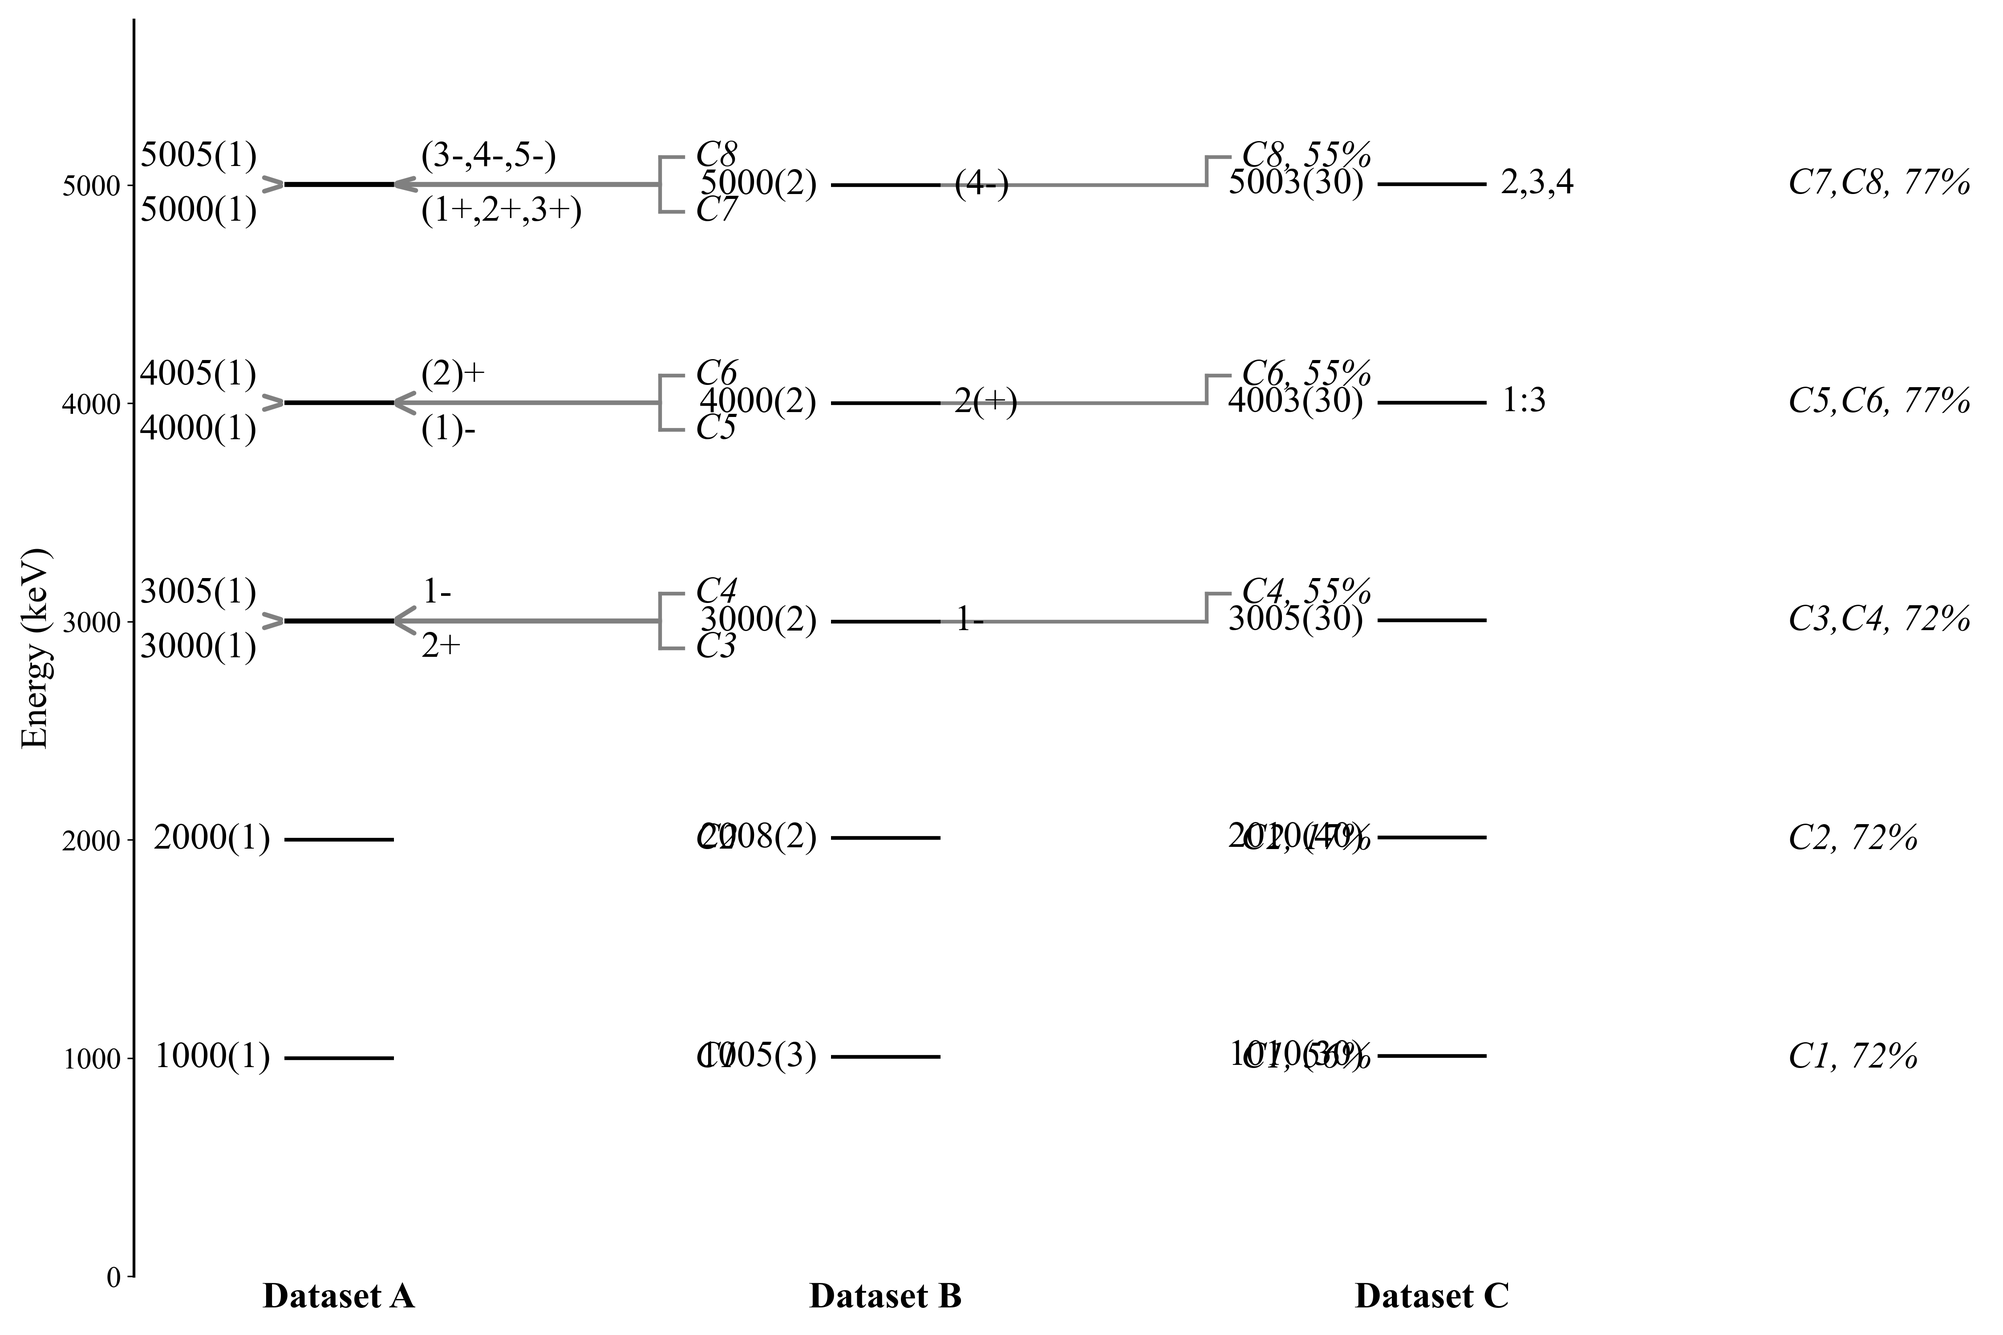
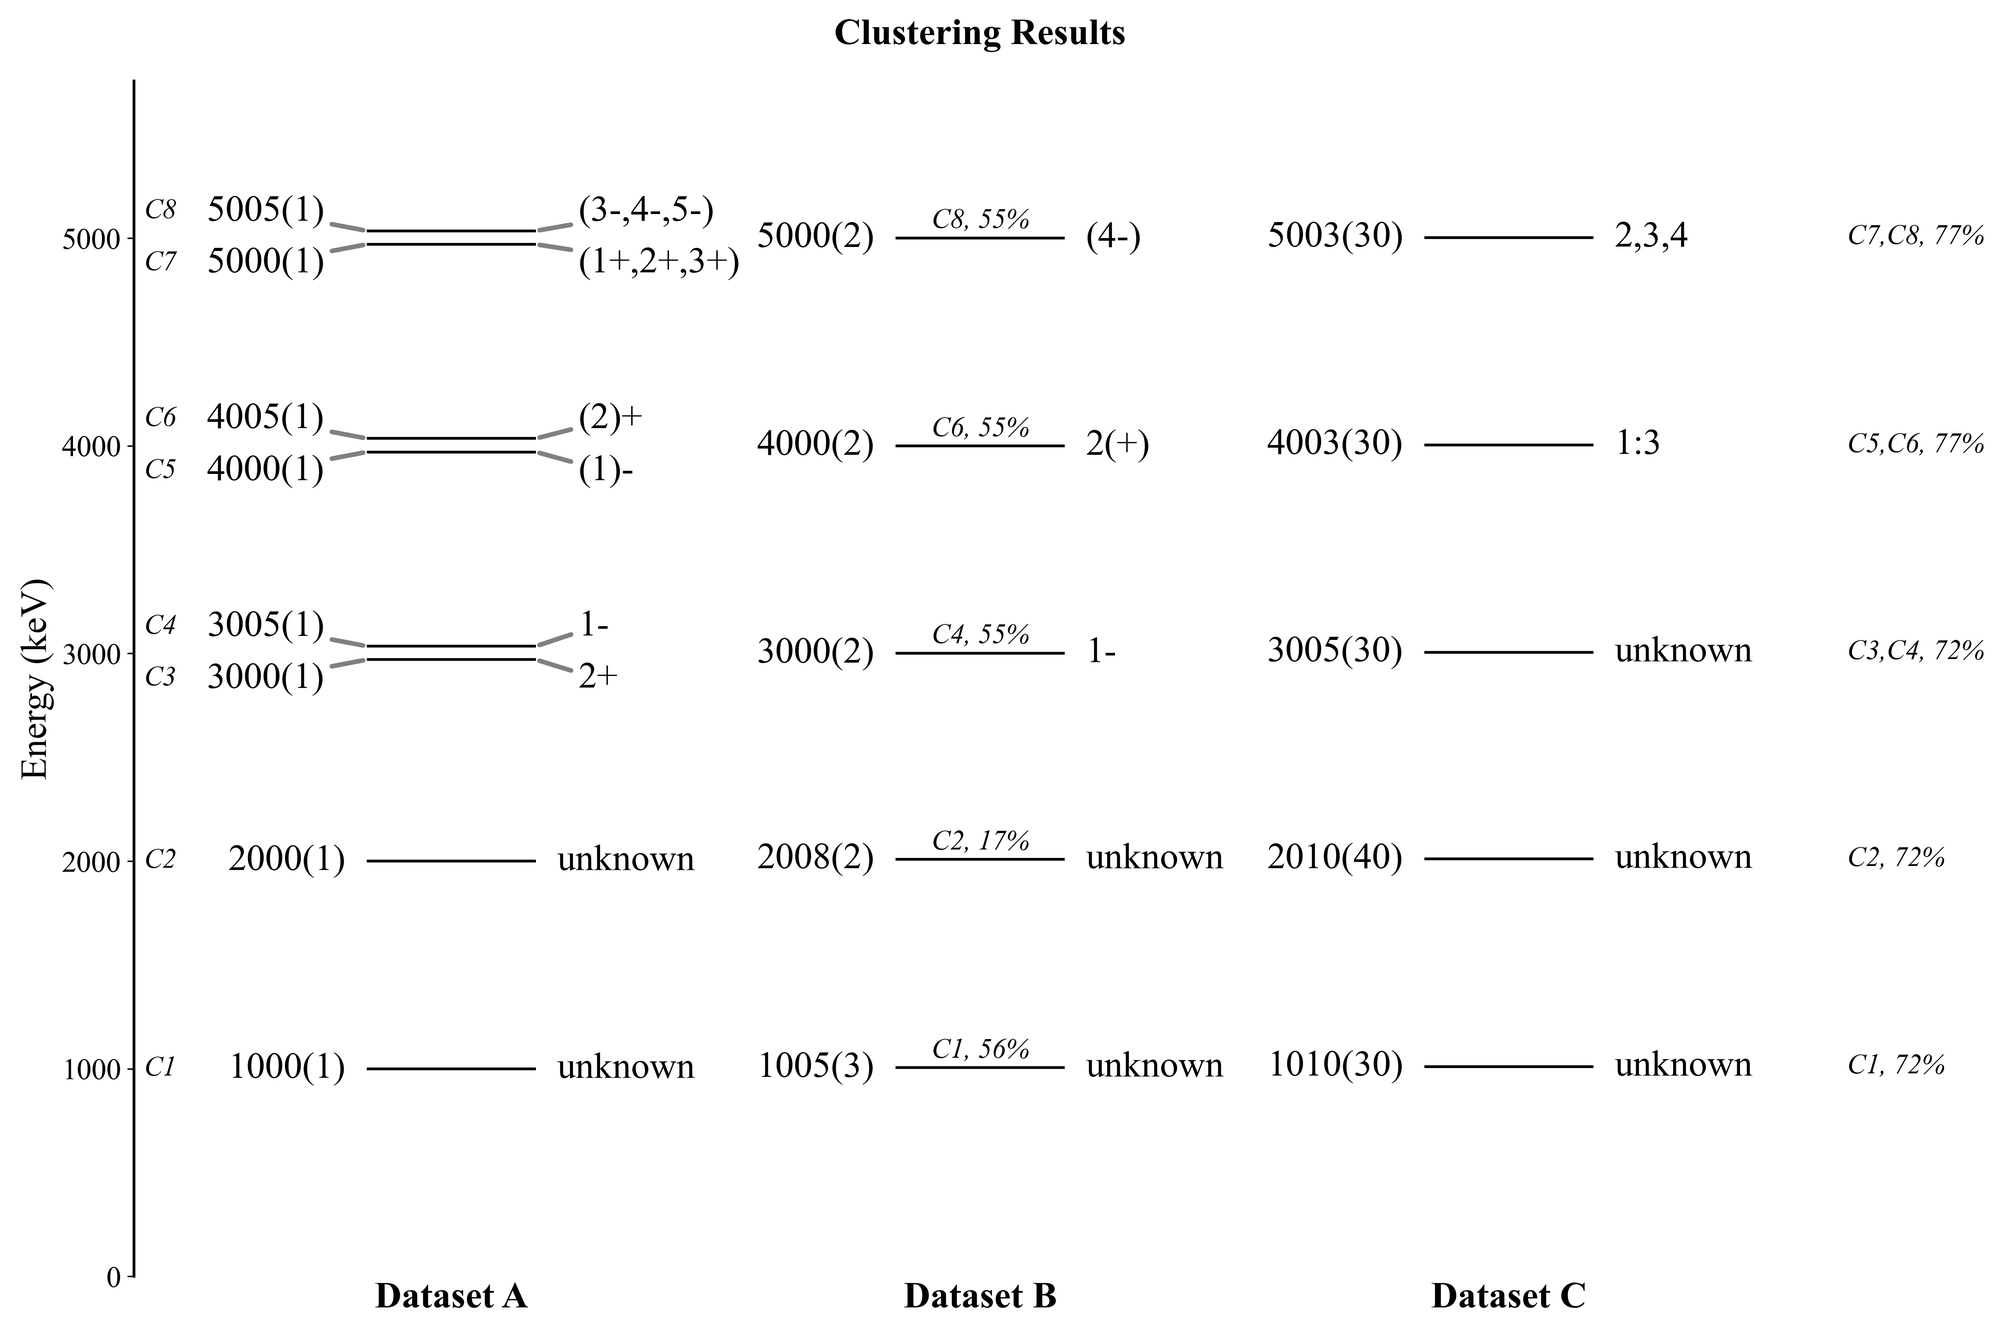
Enhance clustering visualization to align with Level Scheme layout and add cluster labels

diff --git a/Combined_Visualizer.py b/Combined_Visualizer.py
@@ -264,7 +264,7 @@ def parse_clustering_results(clustering_file_path):
     return clusters
 
 def plot_clustering_results():
-    """Generate clean hierarchical visualization of clustering results organized by cluster."""
+    """Generate clustering visualization matching the Level Scheme layout exactly, with cluster labels added."""
     clustering_file_path = 'clustering_results.txt'
     clusters = parse_clustering_results(clustering_file_path)
     
@@ -272,213 +272,156 @@ def plot_clustering_results():
         print("[WARNING] No clusters found in clustering_results.txt")
         return
     
-    # Determine which datasets are present
-    all_datasets = set()
-    for cluster in clusters:
-        for member in cluster['members']:
-            all_datasets.add(member['dataset'])
-    datasets = sorted(all_datasets)
-    
-    # Create figure
+    datasets = ['A', 'B', 'C']
     figure, axis = plt.subplots(figsize=(15, 10))
     
-    # X-axis positions for each dataset column
-    # Use wider spacing to create a dedicated gutter for cluster/probability labels.
-    horizontal_spacing = 4.0
-    x_positions = {dataset: index * horizontal_spacing for index, dataset in enumerate(datasets)}
+    # X-axis positions for each dataset column - IDENTICAL TO LEVEL SCHEME
+    x_positions = {'A': 0, 'B': 2.5, 'C': 5.0}
     line_width = 0.8
-    
-    # Track maximum energy
     maximum_energy = 0
     
-    # Collect ALL levels for each dataset column for global collision resolution
-    all_levels_by_dataset = {dataset: {} for dataset in datasets}  # Use dict to avoid duplicates
+    # Build lookup for cluster info by level
+    cluster_info_by_level = {}
     for cluster in clusters:
         for member in cluster['members']:
-            level_key = (member['dataset'], member['level_id'], member['energy'])
-            if level_key not in all_levels_by_dataset[member['dataset']]:
-                all_levels_by_dataset[member['dataset']][level_key] = {
-                    'unique_level_key': level_key,
-                    'cluster_numbers': [],  # Track all clusters this level belongs to
-                    'energy': member['energy'],
-                    'level_id': member['level_id'],
-                    'uncertainty': member['uncertainty'],
-                    'jpi': member['jpi'],
+            key = (member['dataset'], member['level_id'])
+            if key not in cluster_info_by_level:
+                cluster_info_by_level[key] = {
+                    'cluster_numbers': [],
                     'is_anchor': member['is_anchor'],
                     'match_probability': member['match_probability']
                 }
-            # Add this cluster to the level's cluster list
-            all_levels_by_dataset[member['dataset']][level_key]['cluster_numbers'].append(cluster['cluster_number'])
-            if member['energy'] > maximum_energy:
-                maximum_energy = member['energy']
+            cluster_info_by_level[key]['cluster_numbers'].append(cluster['cluster_number'])
     
-    # Apply global collision resolution for each dataset column
-    text_position_lookup = {}
-    bar_offset_lookup = {}
-    levels_by_dataset_list = {}  # Store the sorted lists for reuse
-    
-    for dataset in datasets:
-        levels_dict = all_levels_by_dataset[dataset]
-        if not levels_dict:
-            continue
+    for dataset_code in datasets:
+        raw_levels = load_dataset(dataset_code)
         
-        # Convert dict to list and sort by energy ONCE
-        levels_in_column = list(levels_dict.values())
-        levels_in_column.sort(key=lambda x: x['energy'])
-        levels_by_dataset_list[dataset] = levels_in_column  # Store for reuse
+        # Extract level data - IDENTICAL TO LEVEL SCHEME
+        levels_data = []
+        for level in raw_levels:
+            # Energy
+            if isinstance(level.get('energy'), dict):
+                energy_value = level.get('energy', {}).get('value')
+                uncertainty = level.get('energy', {}).get('uncertainty', {}).get('value')
+            else:
+                energy_value = level.get('energy_value')
+                uncertainty = level.get('energy_uncertainty')
+                
+            if energy_value is None:
+                continue
+            energy_value = float(energy_value)
+            
+            # Spin/Parity
+            spin_parity_string = ""
+            if isinstance(level.get('spinParity'), dict):
+                spin_parity_string = level.get('spinParity', {}).get('evaluatorInput', '')
+            else:
+                spin_parity_string = level.get('spin_parity_string', '')
+            
+            uncertainty_string = f"({int(uncertainty)})" if uncertainty is not None else ""
+            label_left = f"{int(energy_value)}{uncertainty_string}"
+            label_right = spin_parity_string if spin_parity_string else "unknown"
+            
+            # Get level ID for cluster lookup
+            level_id = level.get('level_id', f"{dataset_code}_{int(energy_value)}")
+            
+            levels_data.append({
+                'energy': energy_value,
+                'label_left': label_left,
+                'label_right': label_right,
+                'level_id': level_id,
+                'dataset': dataset_code
+            })
+            
+            if energy_value > maximum_energy:
+                maximum_energy = energy_value
+
+        # Sort by energy - IDENTICAL TO LEVEL SCHEME
+        levels_data.sort(key=lambda x: x['energy'])
         
-        # Extract energies and apply collision resolution
-        energies = [level['energy'] for level in levels_in_column]
+        # Calculate text positions with collision resolution - IDENTICAL TO LEVEL SCHEME
+        energies = [x['energy'] for x in levels_data]
         text_y_positions = spread_text_positions(energies, min_distance=250)
         
-        # No bar offsets - bars stay at their true energy positions
+        # Calculate vertical offsets for level bars - IDENTICAL TO LEVEL SCHEME
         bar_offsets = [0.0] * len(energies)
+        for index in range(len(energies) - 1):
+            if energies[index + 1] - energies[index] < 150:
+                bar_offsets[index] -= 30
+                bar_offsets[index + 1] += 30
         
-        # Store adjusted positions and offsets
-        for index, level in enumerate(levels_in_column):
-            unique_level_key = level['unique_level_key']
-            text_position_lookup[unique_level_key] = text_y_positions[index]
-            bar_offset_lookup[unique_level_key] = bar_offsets[index]
-
-    # === Calculate global cluster label y-positions (shared across datasets) ===
-    # Use cluster anchor energies as the canonical y values, then apply collision resolution ONCE.
-    cluster_anchor_energy_by_cluster_number = {}
-    for cluster in clusters:
-        if 'cluster_number' in cluster and 'anchor_energy' in cluster:
-            cluster_anchor_energy_by_cluster_number[cluster['cluster_number']] = float(cluster['anchor_energy'])
-
-    sorted_cluster_numbers = sorted(cluster_anchor_energy_by_cluster_number.keys())
-    sorted_cluster_anchor_energies = [cluster_anchor_energy_by_cluster_number[number] for number in sorted_cluster_numbers]
-    sorted_cluster_label_y_positions = spread_text_positions(sorted_cluster_anchor_energies, min_distance=250)
-
-    cluster_label_y_by_cluster_number = {
-        number: float(sorted_cluster_label_y_positions[index])
-        for index, number in enumerate(sorted_cluster_numbers)
-    }
-    
-    # Draw all levels with cluster and probability labels
-    for dataset in datasets:
-        if dataset not in levels_by_dataset_list:
-            continue
-        
-        levels_in_column = levels_by_dataset_list[dataset]  # Reuse the SAME sorted list
-        
-        x_center = x_positions[dataset]
+        # Plot levels - IDENTICAL TO LEVEL SCHEME
+        x_center = x_positions[dataset_code]
         x_start = x_center - line_width / 2
         x_end = x_center + line_width / 2
         
-        for level in levels_in_column:
-            energy = level['energy']
-            unique_level_key = level['unique_level_key']
-
-            # Look up pre-calculated text position and bar offset
-            y_text = text_position_lookup[unique_level_key]
-            bar_offset = bar_offset_lookup[unique_level_key]
+        for index, item in enumerate(levels_data):
+            energy = item['energy']
+            y_text = text_y_positions[index]
+            bar_offset = bar_offsets[index]
             
-            # Draw level line with vertical offset (all black, no colors)
+            # Draw level line with vertical offset for close-by levels - IDENTICAL
             bar_y_position = energy + bar_offset
-            axis.hlines(y=bar_y_position, xmin=x_start, xmax=x_end, 
-                       colors='black', linewidth=2.0)
+            axis.hlines(y=bar_y_position, xmin=x_start, xmax=x_end, colors='black', linewidth=1.5)
             
-            # Construct label text
-            energy_label = f"{int(level['energy'])}({int(level['uncertainty'])})"
-            jpi_label = level['jpi'] if level['jpi'] != 'N/A' else ''
-            
-            # Check if text is displaced significantly
+            # Check if text is displaced significantly - IDENTICAL
             is_displaced = abs(bar_y_position - y_text) > 50
             
             if is_displaced:
-                # Draw connector line and text
-                axis.annotate(energy_label,
+                # Energy label with connector - IDENTICAL
+                axis.annotate(item['label_left'], 
                             xy=(x_start, bar_y_position), xycoords='data',
                             xytext=(x_start - 0.2, y_text), textcoords='data',
                             arrowprops=dict(arrowstyle="-", color='gray', lw=2.5),
                             va='center', ha='right', fontsize=20, family='Times New Roman')
-                if jpi_label:
-                    axis.annotate(jpi_label,
-                                xy=(x_end, bar_y_position), xycoords='data',
-                                xytext=(x_end + 0.2, y_text), textcoords='data',
-                                arrowprops=dict(arrowstyle="-", color='gray', lw=2.5),
-                                va='center', ha='left', fontsize=20, family='Times New Roman')
+                
+                # Spin/Parity label with connector - IDENTICAL
+                axis.annotate(item['label_right'], 
+                            xy=(x_end, bar_y_position), xycoords='data',
+                            xytext=(x_end + 0.2, y_text), textcoords='data',
+                            arrowprops=dict(arrowstyle="-", color='gray', lw=2.5),
+                            va='center', ha='left', fontsize=20, family='Times New Roman')
             else:
-                # Standard text placement
-                axis.text(x_start - 0.1, y_text, energy_label, va='center', ha='right', fontsize=20, family='Times New Roman')
-                if jpi_label:
-                    axis.text(x_end + 0.1, y_text, jpi_label, va='center', ha='left', fontsize=20, family='Times New Roman')
-    
-    # Add combined cluster and probability labels with smart positioning
-    for dataset in datasets:
-        if dataset not in levels_by_dataset_list:
-            continue
-        
-        levels_in_column = levels_by_dataset_list[dataset]  # Reuse the SAME sorted list
-        x_center = x_positions[dataset]
-        
-        # NO sorting needed - use the list as-is (already sorted by energy)
-        # Each level corresponds to its text_position_lookup entry by index
-        for index, level in enumerate(levels_in_column):
-            unique_level_key = level['unique_level_key']
-            text_y = text_position_lookup[unique_level_key]
+                # Standard text placement - IDENTICAL
+                axis.text(x_start - 0.1, y_text, item['label_left'], va='center', ha='right', fontsize=20, family='Times New Roman')
+                axis.text(x_end + 0.1, y_text, item['label_right'], va='center', ha='left', fontsize=20, family='Times New Roman')
             
-            # Construct combined label with ALL cluster numbers
-            cluster_numbers = level['cluster_numbers']
-            sorted_cluster_numbers_for_label = sorted(cluster_numbers)
-            primary_cluster = sorted_cluster_numbers_for_label[0]
-            
-            if len(cluster_numbers) > 1:
-                cluster_label = ','.join([f"C{c}" for c in sorted_cluster_numbers_for_label])
-            else:
-                cluster_label = f"C{primary_cluster}"
-            
-            # Add probability if not anchor
-            if level['is_anchor']:
-                combined_label = cluster_label
-            elif level['match_probability'] is not None:
-                combined_label = f"{cluster_label}, {level['match_probability']:.0%}"
-            else:
-                combined_label = cluster_label
-            
-            # Place cluster label at FIXED global position (same y for all datasets)
-            # Use collision-resolved cluster anchor y positions so close clusters do not overlap.
-            label_y_values = []
-            for cluster_number in sorted_cluster_numbers_for_label:
-                if cluster_number in cluster_label_y_by_cluster_number:
-                    label_y_values.append(cluster_label_y_by_cluster_number[cluster_number])
+            # ADD CLUSTER LABELS - ONLY NEW PART
+            key = (dataset_code, item['level_id'])
+            if key in cluster_info_by_level:
+                info = cluster_info_by_level[key]
+                cluster_numbers = sorted(set(info['cluster_numbers']))
+                
+                if len(cluster_numbers) > 1:
+                    cluster_label_text = ','.join([f"C{c}" for c in cluster_numbers])
+                else:
+                    cluster_label_text = f"C{cluster_numbers[0]}"
+                
+                if (not info['is_anchor']) and (info['match_probability'] is not None):
+                    cluster_label_text = f"{cluster_label_text}, {info['match_probability']:.0%}"
+                
+                # Place cluster labels: A/B in a fixed left gutter to avoid energy text; C in right gutter
+                if dataset_code == 'A':
+                    cluster_x = -1.3  # closer to Dataset A axis
+                    horizontal_alignment = 'right'
+                    label_y = y_text
+                elif dataset_code == 'B':
+                    cluster_x = x_center  # place above the bar center
+                    horizontal_alignment = 'center'
+                    label_y = y_text + 80  # raise above level to avoid overlap
+                else:
+                    cluster_x = x_end + 1.2
+                    horizontal_alignment = 'left'
+                    label_y = y_text
+                
+                axis.text(cluster_x, label_y, cluster_label_text,
+                         va='center', ha=horizontal_alignment, fontsize=15, style='italic', color='black', family='Times New Roman')
 
-            if label_y_values:
-                label_y = sum(label_y_values) / float(len(label_y_values))
-            else:
-                # Fallback: use the collision-resolved text position for this level
-                label_y = float(text_y)
-
-            # Place the label in a dedicated right-side gutter so it does not overlap
-            # energy/Jπ labels or connector arrows.
-            cluster_label_horizontal_offset = 2.2
-            label_x = x_center + line_width / 2 + cluster_label_horizontal_offset
-            axis.text(label_x, label_y, combined_label,
-                     va='center', ha='left', fontsize=20, style='italic', color='black', family='Times New Roman', zorder=5)
-
-            # Draw a connector only when the label y differs from the actual energy bar.
-            # Route it as an L-shape inside the gutter to avoid crossing Jπ text.
-            bar_y_position = float(level['energy'])
-            if abs(label_y - bar_y_position) > 50:
-                bar_end_x = x_center + line_width / 2
-                gutter_elbow_x = label_x - 0.25
-                axis.plot([bar_end_x, gutter_elbow_x], [bar_y_position, bar_y_position], color='gray', lw=2.0, zorder=1)
-                axis.plot([gutter_elbow_x, gutter_elbow_x], [bar_y_position, label_y], color='gray', lw=2.0, zorder=1)
-                axis.plot([gutter_elbow_x, label_x - 0.08], [label_y, label_y], color='gray', lw=2.0, zorder=1)
-    
-    # Styling
-    x_limit_min = -1.5
-    last_dataset = datasets[-1]
-    x_limit_max = x_positions[last_dataset] + line_width / 2 + 3.0
-    axis.set_xlim(x_limit_min, x_limit_max)
+    # Styling - IDENTICAL TO LEVEL SCHEME
+    axis.set_xlim(-1.5, 6.5)
     axis.set_ylim(0, maximum_energy * 1.15)
-    
-    x_tick_positions = [x_positions[dataset] for dataset in datasets]
-    x_tick_labels = [f'Dataset {dataset}' for dataset in datasets]
-    axis.set_xticks(x_tick_positions)
-    axis.set_xticklabels(x_tick_labels, fontsize=20, fontweight='bold', family='Times New Roman')
+    axis.set_xticks([0, 2.5, 5.0])
+    axis.set_xticklabels(['Dataset A', 'Dataset B', 'Dataset C'], fontsize=20, fontweight='bold', family='Times New Roman')
     
     axis.spines['top'].set_visible(False)
     axis.spines['right'].set_visible(False)
@@ -491,7 +434,8 @@ def plot_clustering_results():
     for label in axis.get_yticklabels():
         label.set_family('Times New Roman')
     
-
+    axis.set_title("Clustering Results", fontsize=20, fontweight='bold', pad=20, family='Times New Roman')
+    
     plt.tight_layout()
     output_file = 'Clustering_Visualization.png'
     plt.savefig(output_file, dpi=300)
